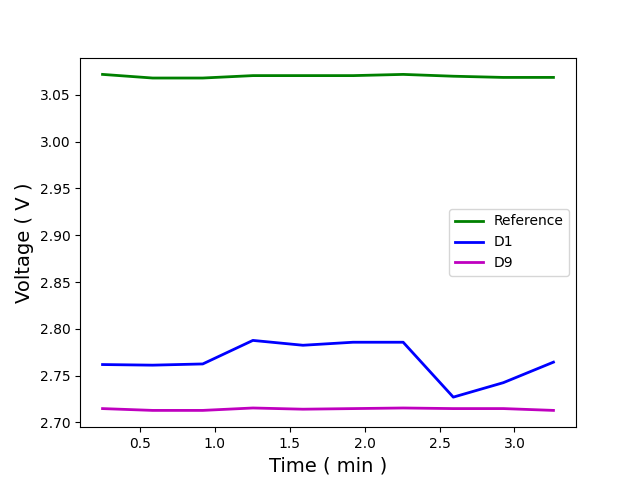
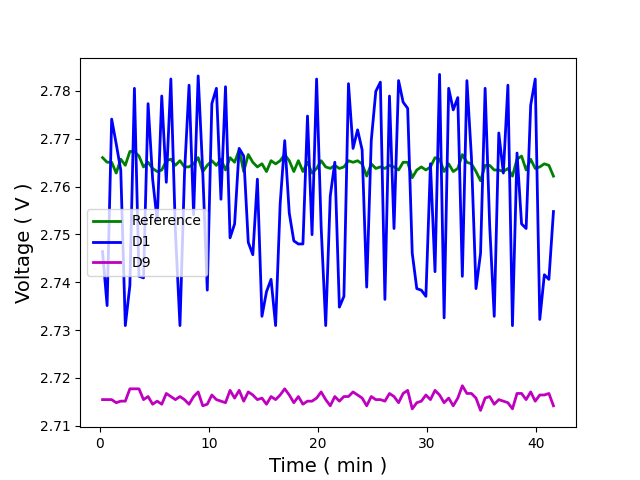
uHeat Ctrl
More Measurement Data. D7 not working as expected. Good enough for a 1st prototype.

diff --git a/IBM4_Serial/IBM4_Serial/IBM4_Serial.py b/IBM4_Serial/IBM4_Serial/IBM4_Serial.py
@@ -983,11 +983,11 @@ def Long_Voltage_Measure():
 
     # As it is I can use 2-PWM channels to output DC signal
     pwmPin1 = 'D1'
-    pwmPin2 = 'D9'
+    pwmPin2 = 'D7'
     pwmSet = 25
     T_sep = 10 # time between measurements in sec
-    N_meas = 5 # total no. meas
-    N_reads = 5
+    N_meas = 100 # total no. meas
+    N_reads = 10
     voltage_data = numpy.array([]) # instantiate an empty numpy array to store the sweep data
 
     # instantiate an object that interfaces with the IBM4
